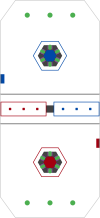
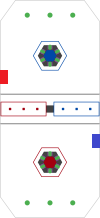
Added images of algae, fixed field images

Changed region(s): [[0.9, 0.6055, 1.0, 0.6881], [0.0, 0.3028, 0.09, 0.3853]]

diff --git a/humanPlayerApp/public/teleop/index.html b/humanPlayerApp/public/teleop/index.html
@@ -18,8 +18,8 @@
           <div id="gamePieceContainer"></div>
         </div>
       </div>
-      <button class="backButton" onclick="saveData(); window.location.href = '/auto';">Back</button>
-      <button class="nextButton" onclick="saveData(); window.location.href = '/endgame'">Next</button>
+      <button class="backButton" onclick="saveData(); window.location.href = '/';">Back</button>
+      <button class="nextButton" onclick="saveData(); window.location.href = '/submit'">Next</button>
       
     </div>
     <script type="module" src="script.js"></script>
